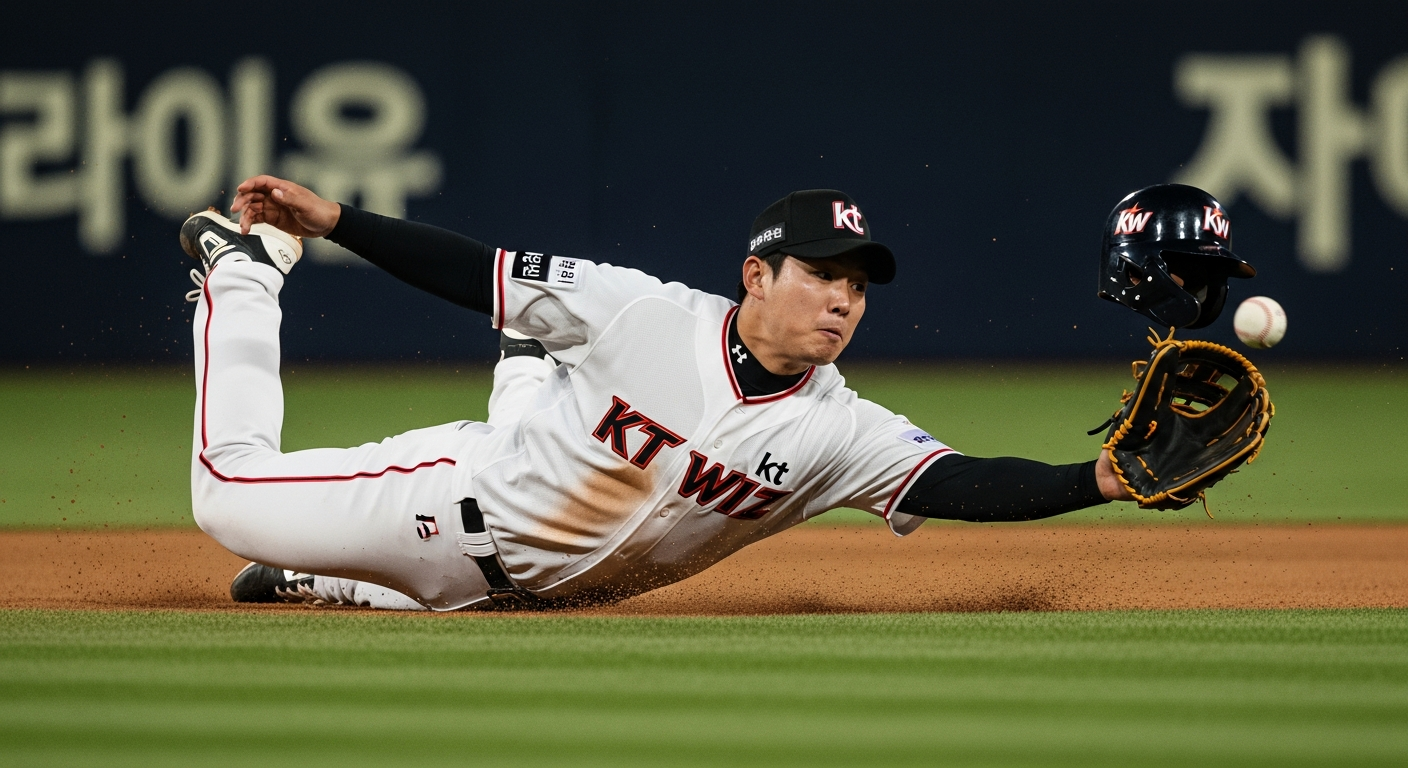
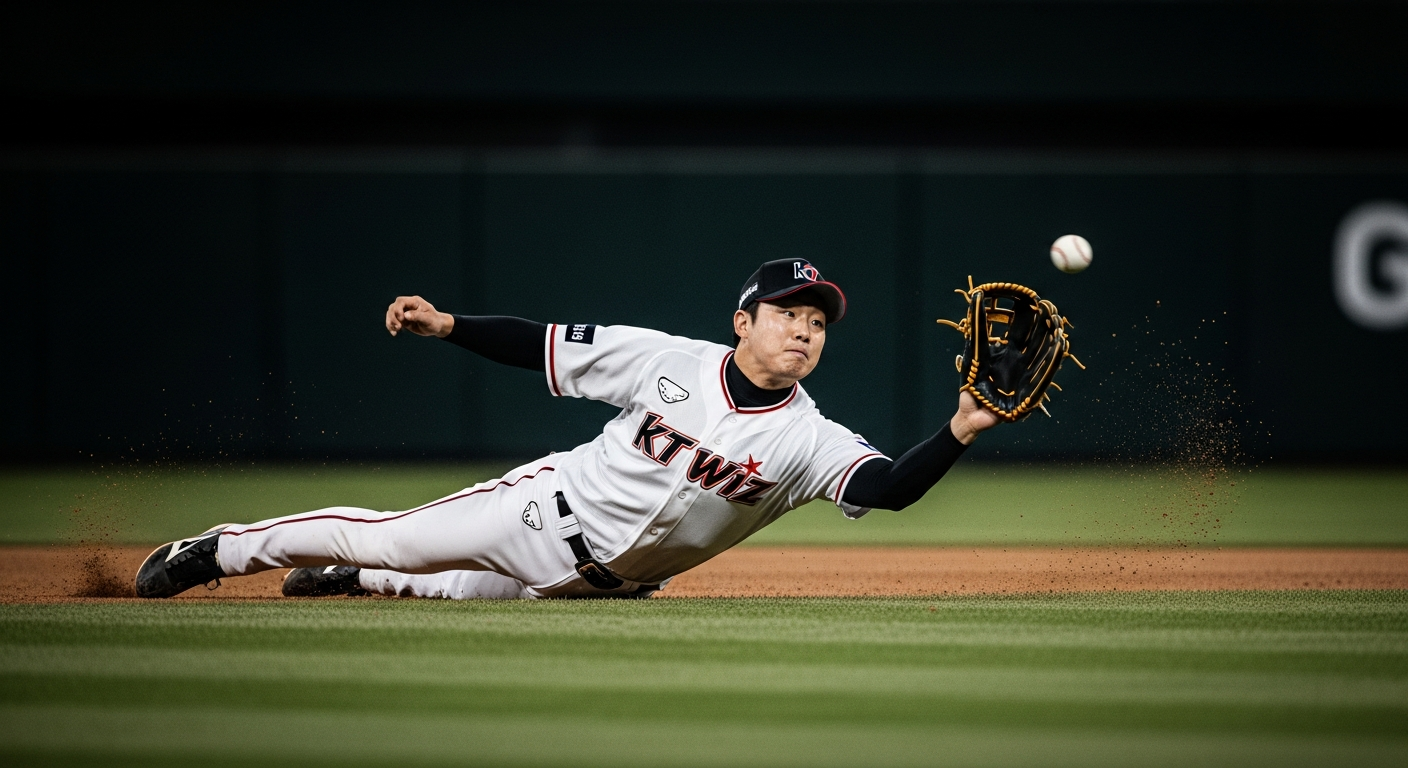
Fix S07 captions (3, correct wording), crowd KT Wiz colors, defense cap
- 홈런 몽타주 자막 4→3개(빠릿한 리듬), '쐐기 솔로포' 등 부적합 워딩 제거,
  마지막 투런포로 최상강남 4점 도달
- 관중 응원 씬: 팬 유니폼을 KT 위즈 색(검정·빨강·흰색)으로 재생성
- 다이빙 캐치 씬: 느닷없는 배팅 헬멧 제거 → 수비용 모자

Claude-Session: https://claude.ai/code/session_015yMmkmfTh7M9GYKm5ba87N

diff --git a/src/scenes/Scene07Homerun.tsx b/src/scenes/Scene07Homerun.tsx
@@ -10,19 +10,18 @@ import { Subtitle } from "../components/Subtitle";
  * 오버레이: 실적 임팩트 자막 + 홈런마다 GANGNAM 스코어 +1.
  */
 
-// 수주 = 득점. 4건으로 최상강남 4점.
+// 수주 = 득점. 3건(마지막 투런)으로 최상강남 4점. 빠릿한 리듬 + 성과 워딩.
 const HITS = [
-  { at: 20, main: "○○기관 42억 수주", sub: "비거리 140m 장외 홈런!" },
-  { at: 165, main: "△△그룹 68억 수주", sub: "우측 담장 훌쩍!" },
-  { at: 310, main: "◇◇전자 91억 수주", sub: "우중간 투런포!" },
-  { at: 455, main: "□□공사 55억 수주", sub: "쐐기 솔로포!" },
+  { at: 30, main: "○○기관 42억 수주", sub: "시즌 첫 홈런포!", runs: 1 },
+  { at: 240, main: "△△그룹 68억 수주", sub: "연타석 아치!", runs: 1 },
+  { at: 440, main: "□□공사 91억 수주", sub: "대형 계약 투런포!", runs: 2 },
 ];
 
 export const Scene07Homerun: React.FC = () => {
   const frame = useCurrentFrame();
-  // 자막 등장 시점마다 스코어 누적
-  const score = HITS.filter((h) => frame >= h.at + 6).length;
-  const active = [...HITS].reverse().find((h) => frame >= h.at && frame < h.at + 120);
+  // 등장한 수주의 득점 합산
+  const score = HITS.filter((h) => frame >= h.at + 6).reduce((a, h) => a + h.runs, 0);
+  const active = [...HITS].reverse().find((h) => frame >= h.at && frame < h.at + 110);
 
   return (
     <AbsoluteFill>

diff --git a/scripts/generate-images.py b/scripts/generate-images.py
@@ -128,18 +128,21 @@ PROMPTS = {
             f"(KBO ppa-dun) after a home run, tossing the bat high in the air with "
             f"swagger while watching the ball fly, confident triumphant pose, night "
             f"stadium lights, cinematic sports, {NEG}",
-    "S07B": f"Ecstatic Korean baseball fans in the stands at night cheering wildly, "
-            f"waving red and black thundersticks, crowd celebrating with raised arms, "
-            f"stadium floodlights, confetti in the air, dynamic energy, cinematic sports "
+    "S07B": f"Ecstatic Korean baseball fans in the stands at night wearing BLACK and RED "
+            f"KT Wiz team jerseys and gear (KT Wiz colors: black, red, white), cheering "
+            f"wildly and waving red and black thundersticks with raised arms, stadium "
+            f"floodlights, confetti in the air, dynamic energy, cinematic sports "
             f"broadcast, {NEG}",
     "S11B": f"Night baseball: a group of {HOME} gathered on the pitching mound for a "
             f"tense strategy meeting, pitcher and infielders leaning in with heads "
             f"together, focused serious faces, stadium lights, cinematic sports "
             f"documentary, maximum five players, {NEG}",
-    "S08B": f"Dramatic slow motion: {HOME_ONE}, an outfielder making a spectacular "
-            f"full-stretch diving catch, body parallel to the ground, glove extended, "
-            f"grass and dust flying, night stadium lights, cinematic sports photography, "
-            f"shallow depth of field, {NEG}",
+    "S08B": f"Dramatic slow motion: a Korean outfielder in the real KT Wiz home uniform "
+            f"(clean WHITE jersey with 'KT WIZ' in bold BLACK lettering and a red star, "
+            f"black collar/sleeve piping, a BLACK team CAP — absolutely NO batting helmet), "
+            f"making a spectacular full-stretch diving catch, body parallel to the ground, "
+            f"glove extended, grass and dust flying, night stadium lights, cinematic "
+            f"sports photography, shallow depth of field, {NEG}",
     "S10B": f"An opposing baseball player in a grey and navy blue uniform sliding into "
             f"home plate scoring a run at night, dust cloud, teammates celebrating in the "
             f"background, tense disappointing mood, cinematic sports, {NEG}",
